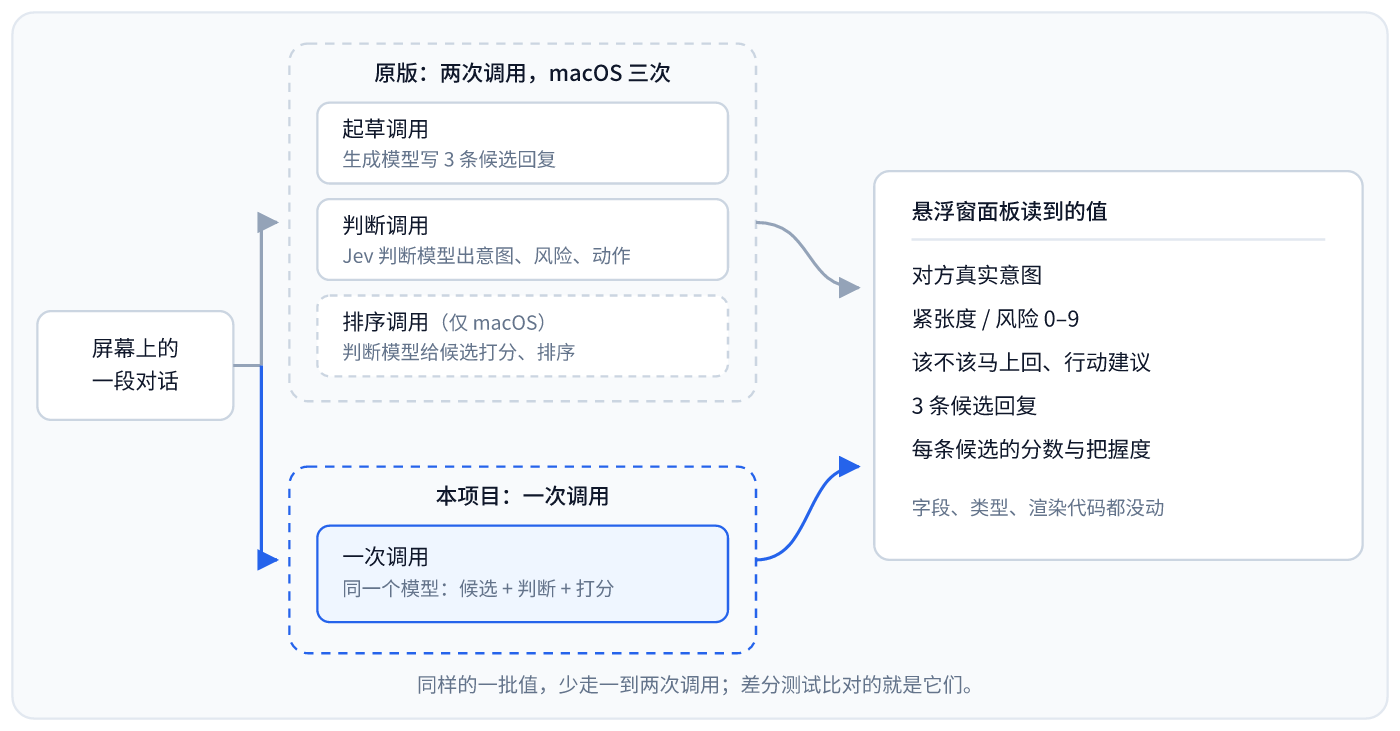
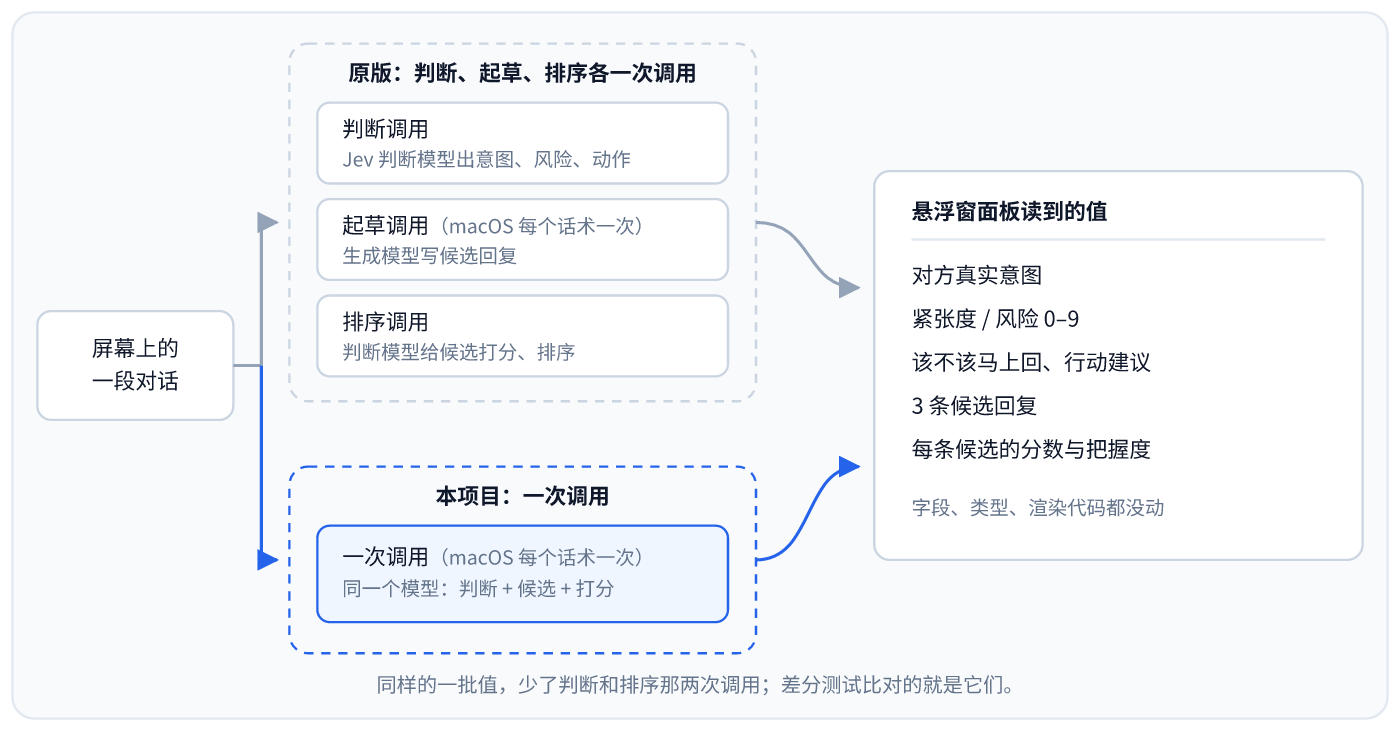
文档跟上 2026-09-26 的同步
- 新增 docs/UPSTREAM.md：三个变体各对齐到原版哪个 commit、三方合并怎么做、解冲突的
  规矩，以及这次同步踩过的五类坑。建仓时没记 fork 点，这次是逐个 commit 比对整棵树
  才找回来的。
- README：徽章从「模型调用 2–3 次 → 1 次」改成「判断与排序调用 2 → 0」——原版三处
  现在都是判断、起草、排序分开调，少掉的那两次三处一样。快速开始写明 v0.1.0 是同步前
  的代码打的；Android 写明 jev-chat-jarvis v1.4 起不支持微信；macOS 写明 QQ 是 v0.6.0
  加的、v0.1.0 包里还带着原版的内置共享 key。「和原版不一样的地方」补上字段顺序、
  probe_laya 探针、Android 的两个按钮、macOS 的输出预算 / 意图不再回喂 / 本地模型那几项
  新功能 / 内置 key。
- MERGE.md：「候选盲写」那段论证过期了（jev-chat-windows v0.1.10 起自己就是带着判断
  写候选），改成如实的说法；新增「字段顺序」一节讲三处为什么不一样；等价判据里记下
  「原版的兜底只见过候选」这一类坑；调用次数表、7 GB → 3.8 GB、各平台新增条目。
- NOTICE：jev-chat-jarvis-mac 从 2026-09-23 起有自己的 NOTICE，「它没有 NOTICE」那句
  不再成立；不许用来暗示背书的域名加上 jev-jarvis.com；补一句字段顺序。
- macos/NOTICE 开头 14 行改回和原版逐字相同（之前第一行带了后缀、原版文本和我们的
  段落之间夹着我们自己的一段，「以上逐字保留」那句不成立）；「离线判断」改成跟根
  README 一样的说法——丢的是隐私，不是离线能力。
- 流程图按三次调用重画（resvg + Noto Sans CJK 渲染，宽度和原图一样）。
- 变体 README 里我们自己写的段落不再说「上游」，写原版或具体仓库名。

diff --git a/README.md b/README.md
@@ -11,7 +11,7 @@
 [![Android](https://img.shields.io/badge/Android-11%2B-3DDC84?style=flat-square&logo=android&logoColor=white)](#android)
 [![macOS](https://img.shields.io/badge/macOS-13%2B-000000?style=flat-square&logo=apple&logoColor=white)](#macos)
 [![真机验证](https://img.shields.io/badge/%E7%9C%9F%E6%9C%BA%E9%AA%8C%E8%AF%81-%E6%97%A0-9e9e9e?style=flat-square)](#用之前要知道的)
-[![模型调用](https://img.shields.io/badge/%E6%A8%A1%E5%9E%8B%E8%B0%83%E7%94%A8-2%E2%80%933%20%E6%AC%A1%20%E2%86%92%201%20%E6%AC%A1-1f6feb?style=flat-square)](#改了什么)
+[![判断与排序调用](https://img.shields.io/badge/%E5%88%A4%E6%96%AD%E4%B8%8E%E6%8E%92%E5%BA%8F%E8%B0%83%E7%94%A8-2%20%E2%86%92%200-1f6feb?style=flat-square)](#改了什么)
 
 [![测试](https://img.shields.io/github/actions/workflow/status/chy4pro/chat-nojev/test.yml?branch=main&style=flat-square&label=%E6%B5%8B%E8%AF%95)](https://github.com/chy4pro/chat-nojev/actions/workflows/test.yml)
 
@@ -22,6 +22,8 @@
 ## 快速开始
 
 三个变体各发了 `v0.1.0`，由仓库自己的 workflow 在 GitHub 的 runner 上编译、打包、发布，**没有一个在真机上跑过**——装之前先看一眼[用之前要知道的](#用之前要知道的)。
+
+这三个包是 2026-09-22 建仓时的代码打的。2026-09-26 源码已经同步到 jev-chat 各自的最新版（jev-chat-windows v0.1.11、jev-chat-jarvis v1.4、jev-chat-jarvis-mac v0.6.0，对齐到哪个 commit 见 [`docs/UPSTREAM.md`](docs/UPSTREAM.md)），同步之后还没有发包；要新代码就从源码跑。
 
 ### Windows
 
@@ -46,6 +48,8 @@ python main.py          # 自己打包：build.bat 或 pyinstaller --noconfirm -
 
 装上之后：设置 →「接口」只有两张卡（模型 / 视觉），填「模型接口」一把 key 就能用，视觉留空自动继承它。权限还是原版那三项——无障碍、悬浮窗、自启动 + 省电无限制。
 
+**jev-chat-jarvis 从 v1.4 起不再支持微信**：微信 8.0.52+ 对无障碍服务隐藏了消息正文，最近又对部分账号开了防截屏，读正文和截屏识别两条路都断了。同步后的源码跟着它：适配的是 QQ / X / 飞书，其余 App 走悬浮球菜单里的「截屏识别一次」，进微信只弹一次提示。上面那个 `v0.1.0` 是同步前打的，还带着旧的微信读取，但在新版微信上它同样读不出正文。
+
 ```bash
 # 从源码打包
 cd android
@@ -56,7 +60,7 @@ cd android
 
 **[下载 macos-v0.1.0](https://github.com/chy4pro/chat-nojev/releases/tag/macos-v0.1.0)** —— `jev-jarvis-macos-v0.1.0.zip`（0.1 MB，同一个 Release 下还有别名 `jev-jarvis-macos-latest.zip` 和一份 `SHA256SUMS`；zip 这么小是因为它只是个启动器，首次运行再联网拉 Python 依赖，这是原版的设计）。**没有代码签名、也没有公证，Gatekeeper 第一次会拦下来**：右键（或按住 Control 点）→ 打开 → 再点一次「打开」；提示「已损坏」就 `xattr -d com.apple.quarantine /Applications/jev-jarvis.app`。构建 runner 是 Apple Silicon（arm64）。
 
-要求 macOS 13+，微信在运行，终端已授予「屏幕录制」；「填入」另需「辅助功能」。配置是一个 env 文件，只有一把 key：
+要求 macOS 13+，微信或 QQ 在运行（QQ 是 jev-chat-jarvis-mac v0.6.0 加的，`v0.1.0` 这个包里还没有），终端已授予「屏幕录制」；「填入」另需「辅助功能」。**`v0.1.0` 这个包还带着原版的内置共享 key**：一把 key 都不配时，聊天会发到 jev-chat-jarvis-mac 作者自建的中转（明文 HTTP）；按下面配了自己的 key 就不会走它。源码里已经留空了。配置是一个 env 文件，只有一把 key：
 
 ```bash
 # 配置；从源码跑见末尾一行
@@ -82,11 +86,13 @@ cd macos && ./start.command   # 从源码跑；自己打包：packaging/build_ap
 
 ## 改了什么
 
-原版的链路是两段：生成模型起草 3 条候选回复，专门的判断模型（TypeSafe Jev）回答对方的真实意图、紧张度、该不该马上回；macOS 上还要再来一次，让判断模型给候选打分排序。两路接口、两把 key。这一版只发一次请求：同一个模型写候选、答那几道判断题、给每条候选打分，一个 JSON 回来。题面原文、选项集合、0–9 的紧张度档位都是从原版原样搬过来的，**换的只是产出方**；悬浮窗读到的字段、类型和渲染那段代码一行没动。
+原版的链路是三次调用：专门的判断模型（Jev）回答对方的真实意图、紧张度、该不该马上回，生成模型起草候选回复，判断模型再给候选打分排序。两路接口、两把 key。这一版只发一次请求（macOS 是每个话术一次）：同一个模型答那几道判断题、写候选、给每条候选打分，一个 JSON 回来。题面原文、选项集合、0–9 的紧张度档位都是从原版原样搬过来的，**换的只是产出方**；悬浮窗读到的字段、类型和渲染那段代码一行没动。
+
+jev-chat-windows 从 v0.1.10 起先判断、再把判断当小抄喂给起草，候选是带着判断写的。这一版在 Windows 和 Android 上用同一次调用做到这件事：JSON 里 `judgment` 排在 `replies` 前面，模型先写下判断，候选跟着它写。macOS 的候选要边收边上屏，所以反过来，候选在前（[为什么](docs/MERGE.md#字段顺序)）。
 
 <div align="center">
 
-<img src="docs/images/flow.png" width="860" alt="jev-chat 两到三次调用、这一版一次调用，送到面板的是同一批字段" />
+<img src="docs/images/flow.png" width="860" alt="jev-chat 判断、起草、排序分三次调用，这一版一次调用，送到面板的是同一批字段" />
 
 </div>
 
@@ -104,11 +110,12 @@ bash   tools/equivalence_check_android.sh --upstream /path/to/jev-chat-jarvis --
 
 ## 和原版不一样的地方
 
-除了合并本身（删掉判断那一路的客户端、配置项和设置页那一节），三棵树跟上游还有这些出入。来龙去脉见 [`docs/MERGE.md`](docs/MERGE.md) 和各变体自己的 README。
+除了合并本身（删掉判断那一路的客户端、配置项和设置页那一节），三棵树跟原版还有这些出入。来龙去脉见 [`docs/MERGE.md`](docs/MERGE.md) 和各变体自己的 README。
 
 **三处都有**
 
 - 选择题的答案不再是一组固定的英文标签：模型用**对话那门语言**写一句短语，三张中文对照表跟着删了，面板显示它写的那句。这一条不是合并逼出来的，是有意选的（[为什么](docs/MERGE.md#判断会不会变差)）。数值完全不受影响。
+- 字段顺序：Windows、Android 是 `judgment` 在前，候选顺着判断写，对应 jev-chat-windows 的三段式；macOS 是 `replies` 在前，为了候选能边收边上屏（[为什么](docs/MERGE.md#字段顺序)）。
 
 **Windows**（[详版](docs/MERGE.md#windows)）
 
@@ -116,6 +123,7 @@ bash   tools/equivalence_check_android.sh --upstream /path/to/jev-chat-jarvis --
 - `max_tokens` 400 → 1600（思考模式 4000 → 5200）；`core/llm.py` 加了 JSON 模式，默认关着。
 - key 的回退改成认来源了——**修原版的毛病**：只设了 DeepSeek key 却选别家，原版会把 key 发给别家。代价是那种情况现在报「未配置」。
 - `docs/KICKOFF.md` 被就地改了；`docs/*.png` 截图没重拍，跟现在的面板对不上。
+- `probe/probe_laya*.py` 三个探针删了：它们只为「本地决策模型能不能替掉 Jev」那项调研存在，import 的排序题这里已经没有了。
 
 **Android**（[详版](docs/MERGE.md#android)）
 
@@ -123,6 +131,7 @@ bash   tools/equivalence_check_android.sh --upstream /path/to/jev-chat-jarvis --
 - 签名配置不再默认指向一个 Windows 路径——**修原版的 bug**，不修则非 Windows 机器上连未签名 release 都打不出来，也就没有那个 APK。
 - `gradlew` 补上了可执行位；版本号退回 `1` / `0.1.0`；`apk/` 目录没有跟着拷过来。
 - 顺带改对了原版 README 的一处笔误：危险等级是 0–9，不是 1–9。
+- App 里「隐私政策」和「开源仓库」两个按钮指本仓库，不指 chatjevs.com 和原版仓库（原版那页隐私政策写的是它的两路接口）；`PRIVACY.md` 按一次调用改写了。
 
 **macOS**（[详版](docs/MERGE.md#macos)）
 
@@ -130,7 +139,10 @@ bash   tools/equivalence_check_android.sh --upstream /path/to/jev-chat-jarvis --
 - 候选的百分比从「跨话术可比」变成「话术内占比」；面板实际用的排序没变。
 - 判断适配器里的兜底挪到了面板（`src/hud.py`），坏数据两边显示不同，5 处记在 `macos/docs/EQUIVALENCE.md`；顺带修掉 `float(value or 0.0)` 碰上非数字会带走 UI 线程的隐患。
 - 判断不再抢在候选前面上屏，「一半成功一半失败」也不再可能。
-- `MAX_TOKENS` 300 → 1200；版本号退回 `0.1.0`；`torch` / `transformers` / `huggingface-hub` / `laya` 从依赖删了，但 `uv.lock` 还锁着它们——**已知的不一致**。
+- 输出预算 300 → 900 + 150 × 每话术候选数（默认 2 条即 1200）；版本号退回 `0.1.0`；`torch` / `transformers` / `huggingface-hub` / `laya` 从依赖删了，但 `uv.lock` 是原版 0.6.0 那一份，还锁着它们——**已知的不一致**。
+- 原版「换话术」「重新生成」时会把上一次判断出的意图喂给生成；这一版候选写在判断前面，那两条路一律不带意图。
+- 原版给本地判断模型加的首次引导（选在线还是离线）、下载进度、国内镜像，跟着本地模型一起不存在。
+- 没有内置共享 key：原版打包时带着它作者那台中转的 token，不配 key 就走过去（明文 HTTP）；这一版留空，不配 key 就弹窗，聊天内容只发给你自己配的端点。
 
 ## jev-chat 与致谢
 
@@ -138,9 +150,9 @@ bash   tools/equivalence_check_android.sh --upstream /path/to/jev-chat-jarvis --
 
 - **[jev-chat-jarvis](https://github.com/jev-chat/jev-chat-jarvis)**（Jev 聊天助手，Android，最早的那一版；判断题面和分类体系出自这里）—— Finderchangchang 与 jev-chat 贡献者，`android/` 的直接来源
 - **[jev-chat-windows](https://github.com/jev-chat/jev-chat-windows)**（Jev 聊天助手 Windows 版）—— rezoch340 与 jev-chat 贡献者，`windows/` 的直接来源
-- **[jev-chat-jarvis-mac](https://github.com/jev-chat/jev-chat-jarvis-mac)**（macOS 版）—— eatmoreduck，`macos/` 的直接来源
+- **[jev-chat-jarvis-mac](https://github.com/jev-chat/jev-chat-jarvis-mac)**（macOS 版）—— eatmoreduck 与 jev-chat 贡献者，`macos/` 的直接来源
 
-分发或商用时请保留 LICENSE 与 [NOTICE](NOTICE) 并写明来源。本仓库与原作者没有任何关系，也**不要**用「Jev 聊天助手」「jev-chat」这些名字或 chatjevs.com 域名暗示由他们出品或背书。原版的第三方组件条款（包括 Windows 打包件会受约束的 PySide6-Fluent-Widgets GPLv3）原样保留在 `windows/NOTICE`。
+分发或商用时请保留 LICENSE 与 [NOTICE](NOTICE) 并写明来源。本仓库与原作者没有任何关系，也**不要**用「Jev 聊天助手」「jev-chat」这些名字或 chatjevs.com、jev-jarvis.com 域名暗示由他们出品或背书。原版的第三方组件条款（包括 Windows 打包件会受约束的 PySide6-Fluent-Widgets GPLv3）原样保留在 `windows/NOTICE`。
 
 ## 许可与免责
 

diff --git a/docs/UPSTREAM.md b/docs/UPSTREAM.md
@@ -1,0 +1,69 @@
+# 上游同步记录
+
+这个仓库是三个上游应用各自的派生，每个变体都是「某一个上游 commit 的整棵树 + 我们那一处合并」。
+**同步的前提是知道每棵树当前对齐到上游的哪个 commit**，所以每次同步都往下面这张表添一行。
+2026-09-22 建仓时没记，第一次同步得靠逐个 commit 比对整棵树才找回来，别再重来一次。
+
+| 变体 | 上游仓库 | 当前对齐到 | 上游当时的 tag | 同步日期 |
+|---|---|---|---|---|
+| `windows/` | [jev-chat-windows](https://github.com/jev-chat/jev-chat-windows) | `946d3d1` | `v0.1.11` | 2026-09-26 |
+| `android/` | [jev-chat-jarvis](https://github.com/jev-chat/jev-chat-jarvis) | `71ee797` | `v1.4` + 23 | 2026-09-26 |
+| `macos/` | [jev-chat-jarvis-mac](https://github.com/jev-chat/jev-chat-jarvis-mac) | `2387d71` | `v0.6.0` + 19 | 2026-09-26 |
+
+建仓时的 fork 点（表里第一行的上一行）：`windows/` = `016eac1`、`android/` = `7c07d9d`、
+`macos/` = `a28cb9e`，都在 2026-09-22。
+
+## 怎么同步
+
+三方合并，让 git 干机械的那部分——不要手抄 diff。每个变体一次：
+
+```bash
+git clone https://github.com/jev-chat/<repo>.git /tmp/up          # 完整历史，不要 --depth 1
+git -C /tmp/up branch nojev <上表的「当前对齐到」>                  # 合并基
+git -C /tmp/up worktree add /tmp/m nojev
+# 把我们这棵树整个铺到 worktree 上（保留 .git，上游自己的 .github 先留着，最后再删）
+# 然后提交成一个「ours」commit，再 merge 上游 HEAD
+git -C /tmp/m commit -am 'chat-nojev <变体>'
+git -C /tmp/m merge <上游 HEAD>
+```
+
+于是 `git diff <合并基> HEAD` 就是**我们的偏离**，`git diff <合并基> <上游 HEAD>` 就是
+**上游这段时间干的事**，每个冲突 hunk 都能对着这两份判断该要哪边。解完冲突再铺回
+`<变体>/`。`.github/` 的规矩：我们的 CI 在仓库根，变体目录里的 `.github/` GitHub 不会读；
+`windows/`、`android/` 不带，`macos/` 只带 `ISSUE_TEMPLATE/` 和 `PULL_REQUEST_TEMPLATE.md`
+（它的 `ci/` 脚本和测试引用它们），不带 workflows。
+
+## 解冲突的规矩
+
+1. **默认要上游的。** 先问「这个 hunk 跟『判断由谁产出』有关系吗」——无关就原样取上游，
+   不顺手优化、不加注释。
+2. **我们只保留 [`MERGE.md`](MERGE.md) 里记着的那些偏离**，一条不多。
+3. **上游的新行为，只要不是「判断由谁产出」，都要落到合并后那条路上。** 最容易漏的一条：
+   上游修了 bug、加了来源、改了提示词，哪怕它落在我们改过的函数里，也要跟上。
+4. 同步完跑那五套（两个 `offline_check.py` + 三套差分 + Android 的两个负控），
+   然后把这份表和 `MERGE.md` 一起更新。上游改了题面、选项集合或档位的话，根 README 里
+   「题面一个字没改」那句得跟着改。
+
+## 2026-09-26 那次同步踩过的坑
+
+下次同步照着查一遍，这几类都不会在冲突里自己冒出来。
+
+- **同名不同义的符号。** 上游 `033d6ef` 在 `windows/core/questions.py` 加了 `CHOICE_LABELS`
+  （英文 key → 中文显示），我们那里原本也有一个 `CHOICE_LABELS`（每道题的选项 key 元组）。
+  git 把两个都合进来了，后一个悄悄盖掉前一个，不报冲突。我们的已经改名 `CHOICE_OPTIONS`；
+  以后自己加模块级名字前，先在上游那棵树里 grep 一下。
+- **原版的兜底只见过候选。** 三处原版都有「JSON 解析不出来就逐行抠」的兜底。合并之后同一段回答
+  里还有判断，`"replies": []` 会让兜底把 JSON 自己的行当候选抠出来。三套差分各有一个场景盯着
+  （`all_candidates_filtered_out` / `one_tone_writes_nothing_usable`），同步完它们必须是绿的。
+- **上游吞异常，桩坏了看起来像差分。** macOS 的 `_rank_payload` 把任何异常都吞成「没分」，上游
+  v0.6.0 开始从 `self` 上读 `_reply_worker` / `_active_context`，桩里没有，于是 16 个场景全部
+  报「我们这边分数不对」。`tools/equivalence_check_macos.py` 现在先检查上游那侧真的排出了分，
+  没排出来就直接报「桩坏了」。上游再往 `self` 上加读的东西，报的是这句，按它补桩。
+- **上游的新功能会改我们偏离的前提。** 这次两处：Windows 改成三段式，于是「候选盲写」这条论证
+  过期、JSON 字段顺序得跟着改；macOS 每话术候选数变成可配 1–5，于是固定的输出预算不够了。
+  读上游日志时，凡是碰到判断、起草、排序、候选数、提示词的提交，都要回头看 `MERGE.md` 里哪句话
+  靠它成立。
+- **App 里指向原版的出口。** 上游会往 App 里加链接（这次是 Android 的隐私政策和开源仓库按钮），
+  默认指着它自己的站点。同步完 `grep -rnE 'chatjevs\.com|jev-jarvis\.com|github\.com/jev-chat'`
+  一遍变体的源码目录，App 里能点到的都要指本仓库。
+

diff --git a/windows/README.md b/windows/README.md
@@ -25,15 +25,15 @@
 
 ## 不是原版的地方
 
-合并本身带来的改动（删掉判断那一路的客户端、配置和设置页那一节）不算，剩下跟上游的出入全在这里；
+合并本身带来的改动（删掉判断那一路的客户端、配置和设置页那一节）不算，剩下跟原版的出入全在这里；
 根 [README](../README.md#和原版不一样的地方) 里三个变体一起列，长版在 [`../docs/MERGE.md`](../docs/MERGE.md#windows)。
 
 - **选择题的答案不再是固定的英文标签。** 原版由分类器作答，只能从封闭的 key 集合里挑，界面拿
-  `core.questions.CHOICE_LABELS`（上游后来把这张表从 `app/overlay.py` 挪了过去）翻成固定的中文；
+  `core.questions.CHOICE_LABELS`（jev-chat-windows 后来把这张表从 `app/overlay.py` 挪了过去）翻成固定的中文；
   这一版让模型用**对话那门语言**写一句短语，那张表删了，面板显示模型
   写的那句。**这一条不是合并逼出来的**——完全可以让模型照旧吐英文 key。选它的理由见根 README。
   代价：常见情况下用词跟原版很接近但不逐字相同，英文对话显示英文。数值不受影响。
-- **上游的三段式落成了字段顺序 + 一条提示词约束。** 原版先让 Jev 答判断题，把判断折成中文小抄喂给
+- **jev-chat-windows 的三段式落成了字段顺序 + 一条提示词约束。** 原版先让 Jev 答判断题，把判断折成中文小抄喂给
   起草，最后再让 Jev 排序（它的 v0.1.10，见下面的更新记录）。这一版只有一次调用，于是把 `judgment`
   排在 `replies` **前面**（模型先写下判断，后面的候选才是顺着它写的），并在提示词里照搬了原版那句
   要求：三条候选都要顺着「建议动作 / 对方意图 / 对方需要」写。原版判断失败退回盲起草的那条退路

diff --git a/android/README.md b/android/README.md
@@ -28,7 +28,7 @@
 
 ## 不是原版的地方
 
-合并本身带来的改动（删掉 `JudgeClient`、判断那一路的配置和设置页那张卡）不算，剩下跟上游的出入全在
+合并本身带来的改动（删掉 `JudgeClient`、判断那一路的配置和设置页那张卡）不算，剩下跟原版的出入全在
 这里；根 [README](../README.md#和原版不一样的地方) 里三个变体一起列，长版在 [`../docs/MERGE.md`](../docs/MERGE.md#android)。
 
 - **应用 id `com.jev.probe` → `com.jev.probe.nojev`，启动器名字「Jev助手」→「对话副驾」。**
@@ -51,6 +51,11 @@
   模型照旧吐英文 key、表原样留着；理由和代价见根 README。数值（危险等级、把握、候选百分比、排序）
   完全不受影响。
 - 顺带改对了原版 README 里的一处笔误：危险等级是 **0–9**，不是它写的 1–9。
+- **App 里「隐私政策」和「开源仓库」两个按钮指本仓库**，不指 chatjevs.com 和 jev-chat-jarvis：
+  原版那页隐私政策写的是它的两路接口加判断服务商，跟这一版对不上。按钮打开的是本目录的
+  [`PRIVACY.md`](PRIVACY.md)，已经按一次调用改写。上面「官网」那个链接是原版 README 的原文，指的仍是原版。
+- **字段顺序：`judgment` 在 `replies` 前面**，模型先写下判断，三条候选顺着它写（提示词里写明了要顺着
+  建议动作 / 对方意图 / 对方需要）。原版的起草和判断是两次调用、互相看不到。
 
 ## ❤赞助商
 
